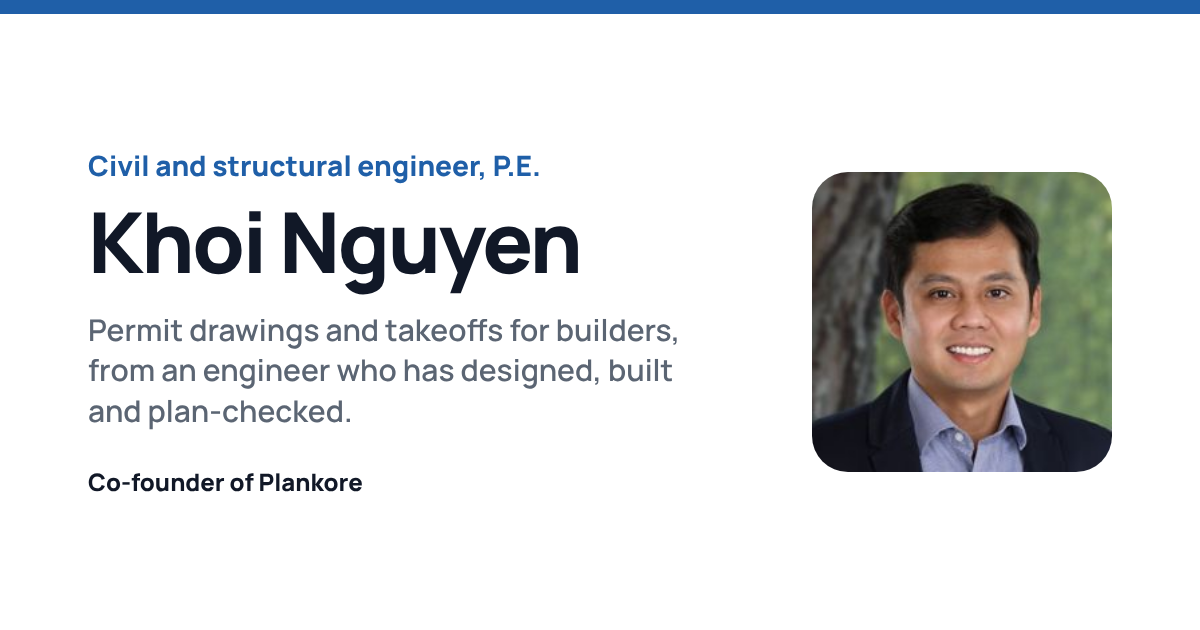
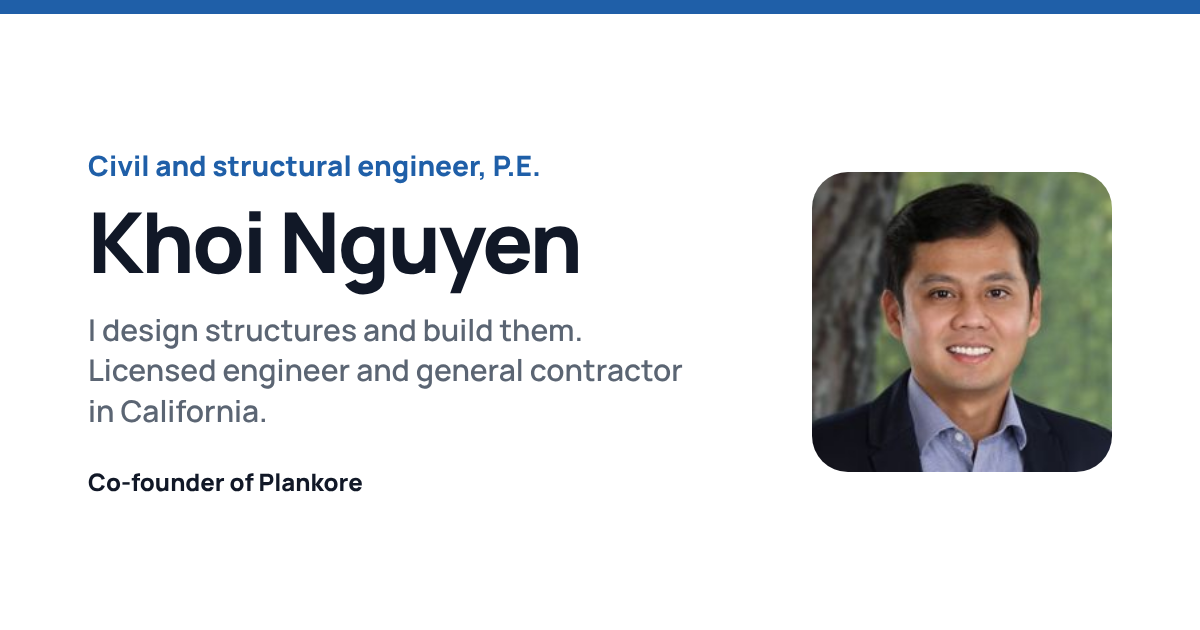
Restore the original hero intro
Brings back "I design structures and build them..." in the hero, the
share description and the share image, and drops the credentials line.

Claude-Session: https://claude.ai/code/session_01QYj8GYT9mbWcwuhw5dX3rm

Changed region(s): [[0.0617, 0.573, 0.5858, 0.6937], [0.0617, 0.5127, 0.555, 0.5429]]

diff --git a/index.html b/index.html
@@ -9,7 +9,7 @@
 <meta property="og:type" content="profile">
 <meta property="og:site_name" content="Khoi Nguyen, P.E.">
 <meta property="og:title" content="Khoi Nguyen, P.E. | Civil &amp; Structural Engineer">
-<meta property="og:description" content="Permit drawings and construction takeoffs for builders, from an engineer who has designed, built and plan-checked. Co-founder of Plankore.">
+<meta property="og:description" content="I design structures and build them. Co-founder of Plankore, a licensed professional engineer and general contractor in California, and a former plan check professional.">
 <meta property="og:url" content="https://khoinguyen-pe.github.io/">
 <meta property="og:image" content="https://khoinguyen-pe.github.io/share.png">
 <meta property="og:image:width" content="1200">
@@ -45,8 +45,6 @@ a:focus-visible, .btn:focus-visible { outline: 2px solid var(--accent); outline-
 .kicker { color: var(--accent); font-weight: 700; font-size: 0.95rem; }
 h1 { font-weight: 800; font-size: clamp(2.6rem, 6vw, 4rem); line-height: 1.05; letter-spacing: -0.03em; margin-top: 0.5rem; }
 .intro { margin-top: 1.25rem; font-size: 1.2rem; color: var(--muted); max-width: 36ch; }
-.creds { margin-top: 1rem; color: var(--muted); font-size: 0.95rem; font-weight: 600; max-width: 44ch; }
-.creds a { color: inherit; }
 .cta { display: flex; flex-wrap: wrap; gap: 0.75rem; margin-top: 2rem; }
 .btn { display: inline-block; padding: 0.8rem 1.4rem; border-radius: 999px; font-weight: 700; text-decoration: none; }
 .btn-main { background: var(--ink); color: var(--bg); }
@@ -163,8 +161,7 @@ section, #top { scroll-margin-top: 76px; }
     <div>
       <p class="kicker">Civil and structural engineer, P.E.</p>
       <h1>Khoi Nguyen</h1>
-      <p class="intro">Permit drawings and construction takeoffs for builders, from an engineer who has designed, built and plan-checked.</p>
-      <p class="creds">California P.E. · Class A and B contractor · Former City of Fremont plan checker · Co-founder of <a href="https://plankore.ai">Plankore</a></p>
+      <p class="intro">I design structures and build them. Co-founder of <a href="https://plankore.ai">Plankore</a>, a licensed professional engineer and general contractor in California, and a former plan check professional.</p>
       <div class="cta">
         <a class="btn btn-main" href="mailto:khoi@plankore.ai">Email Khoi</a>
         <a class="btn btn-ghost" href="#projects">See projects</a>
